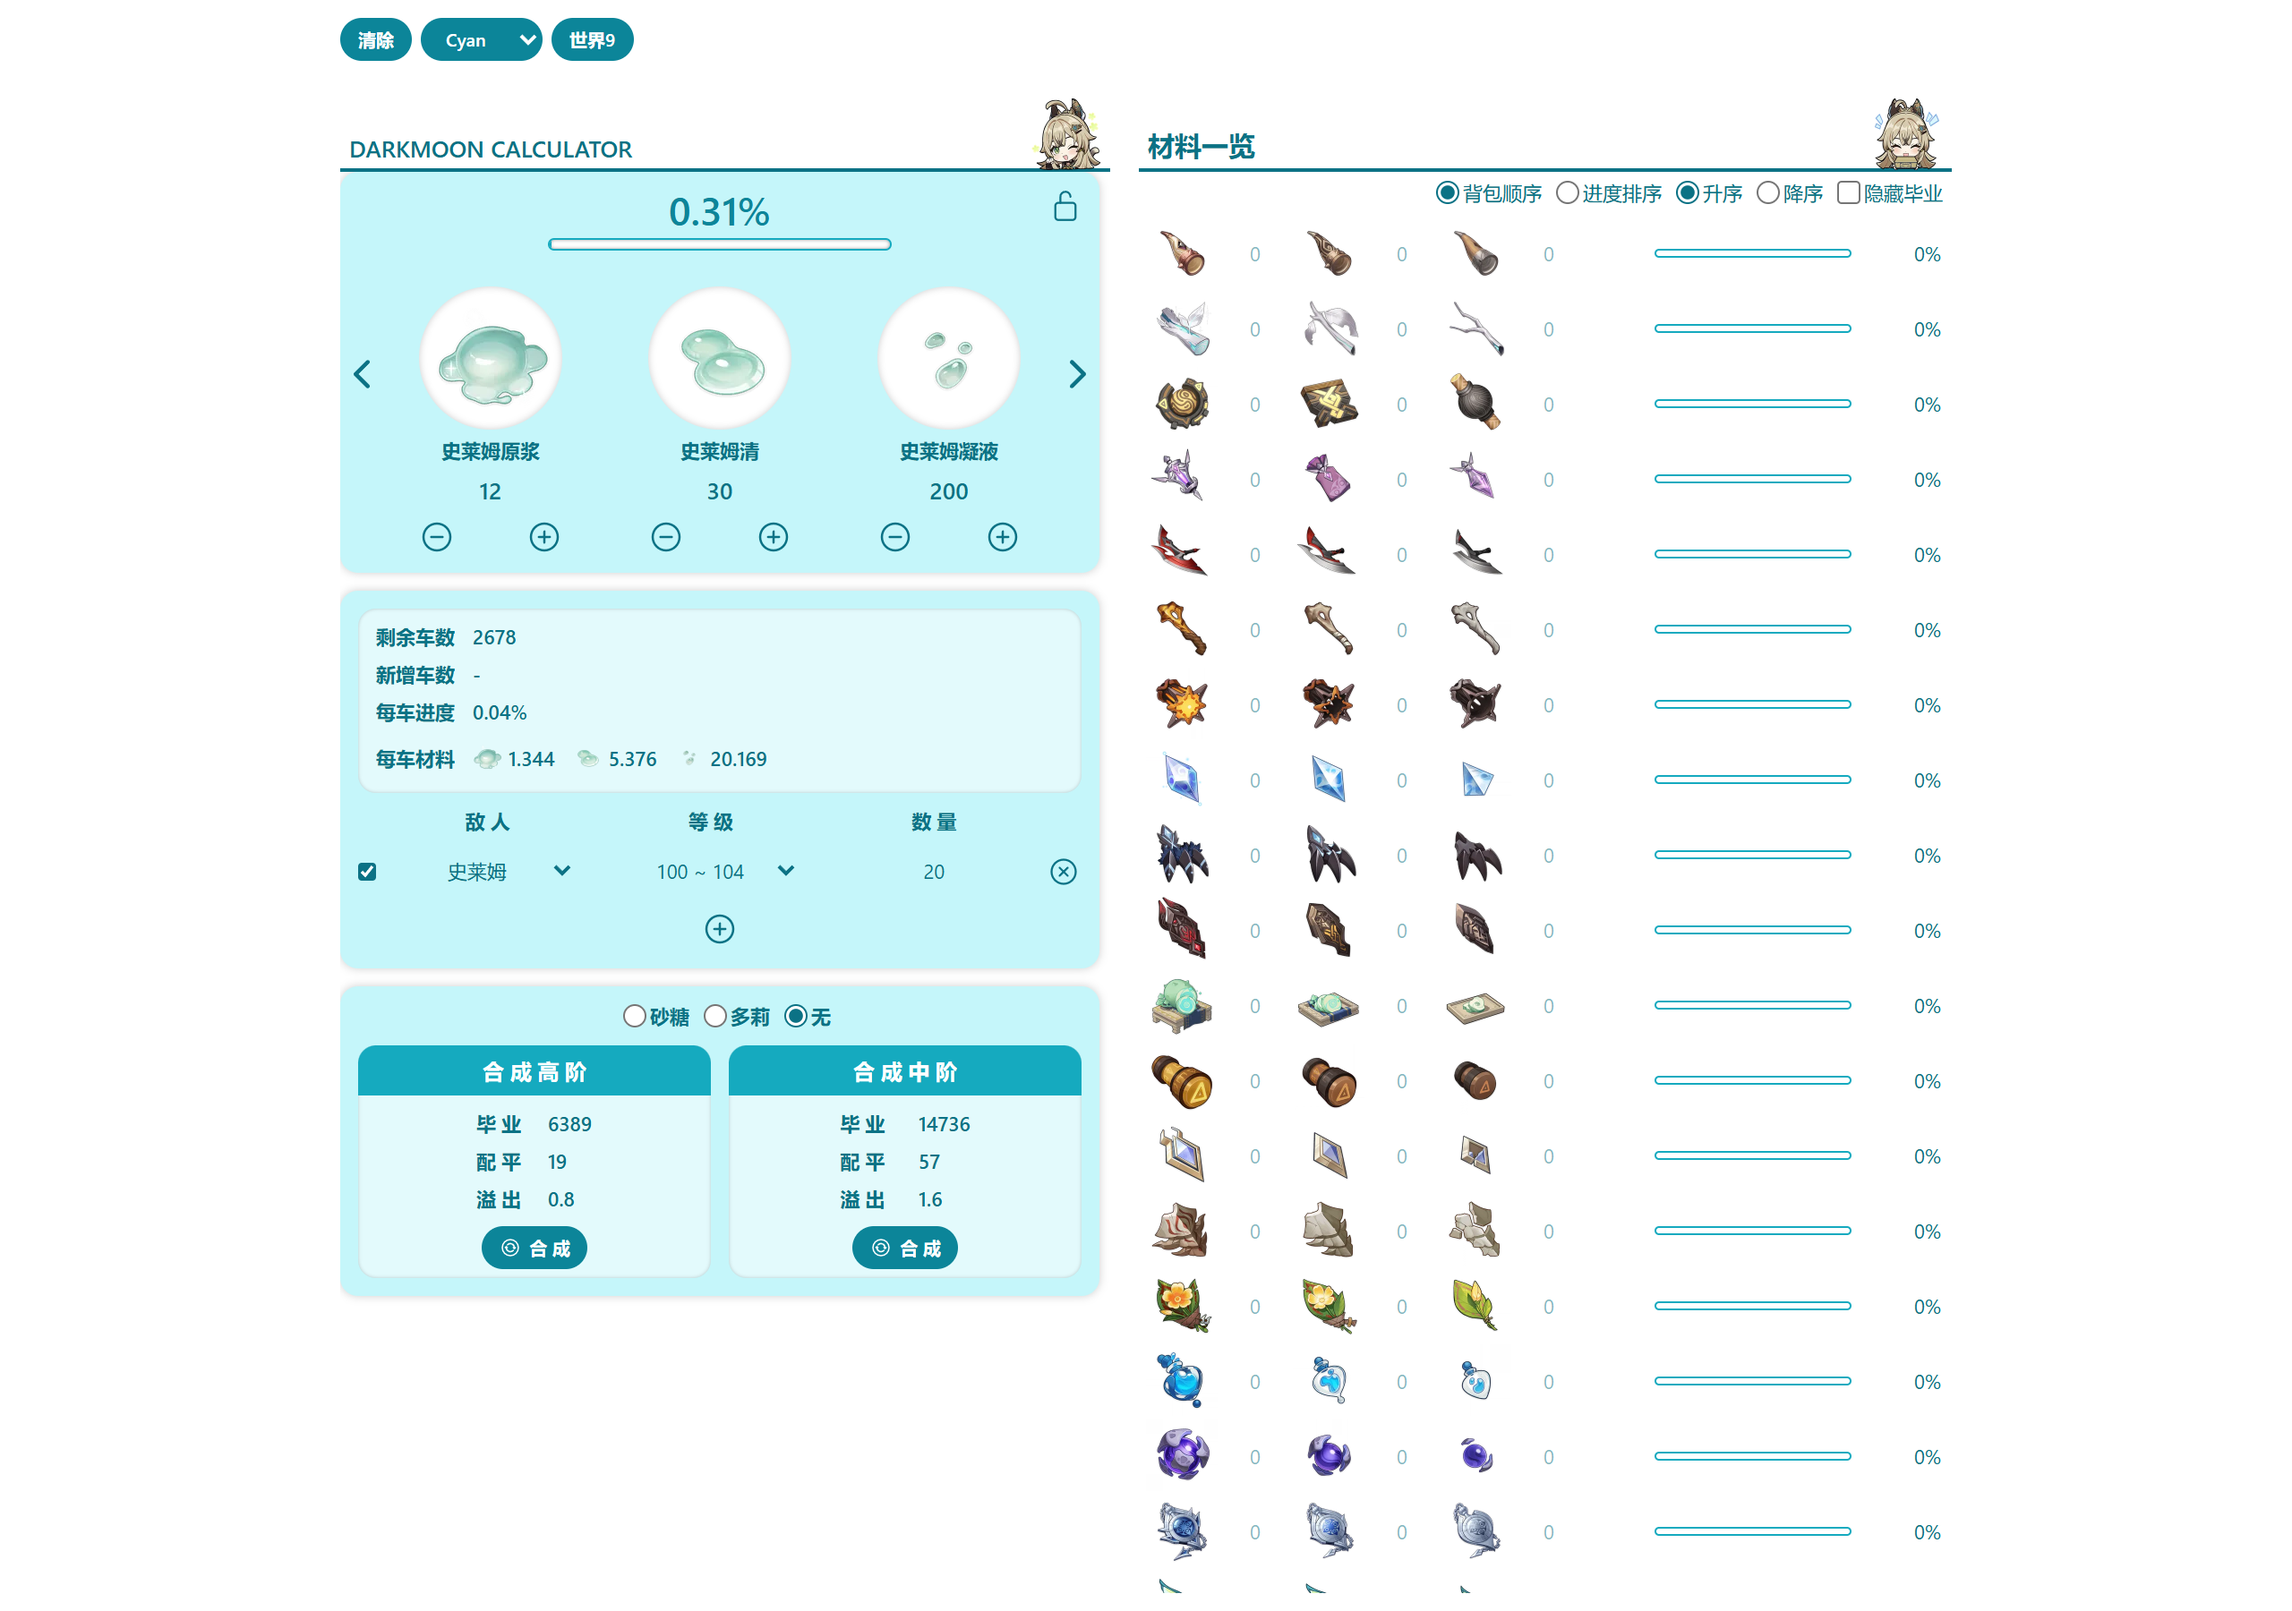
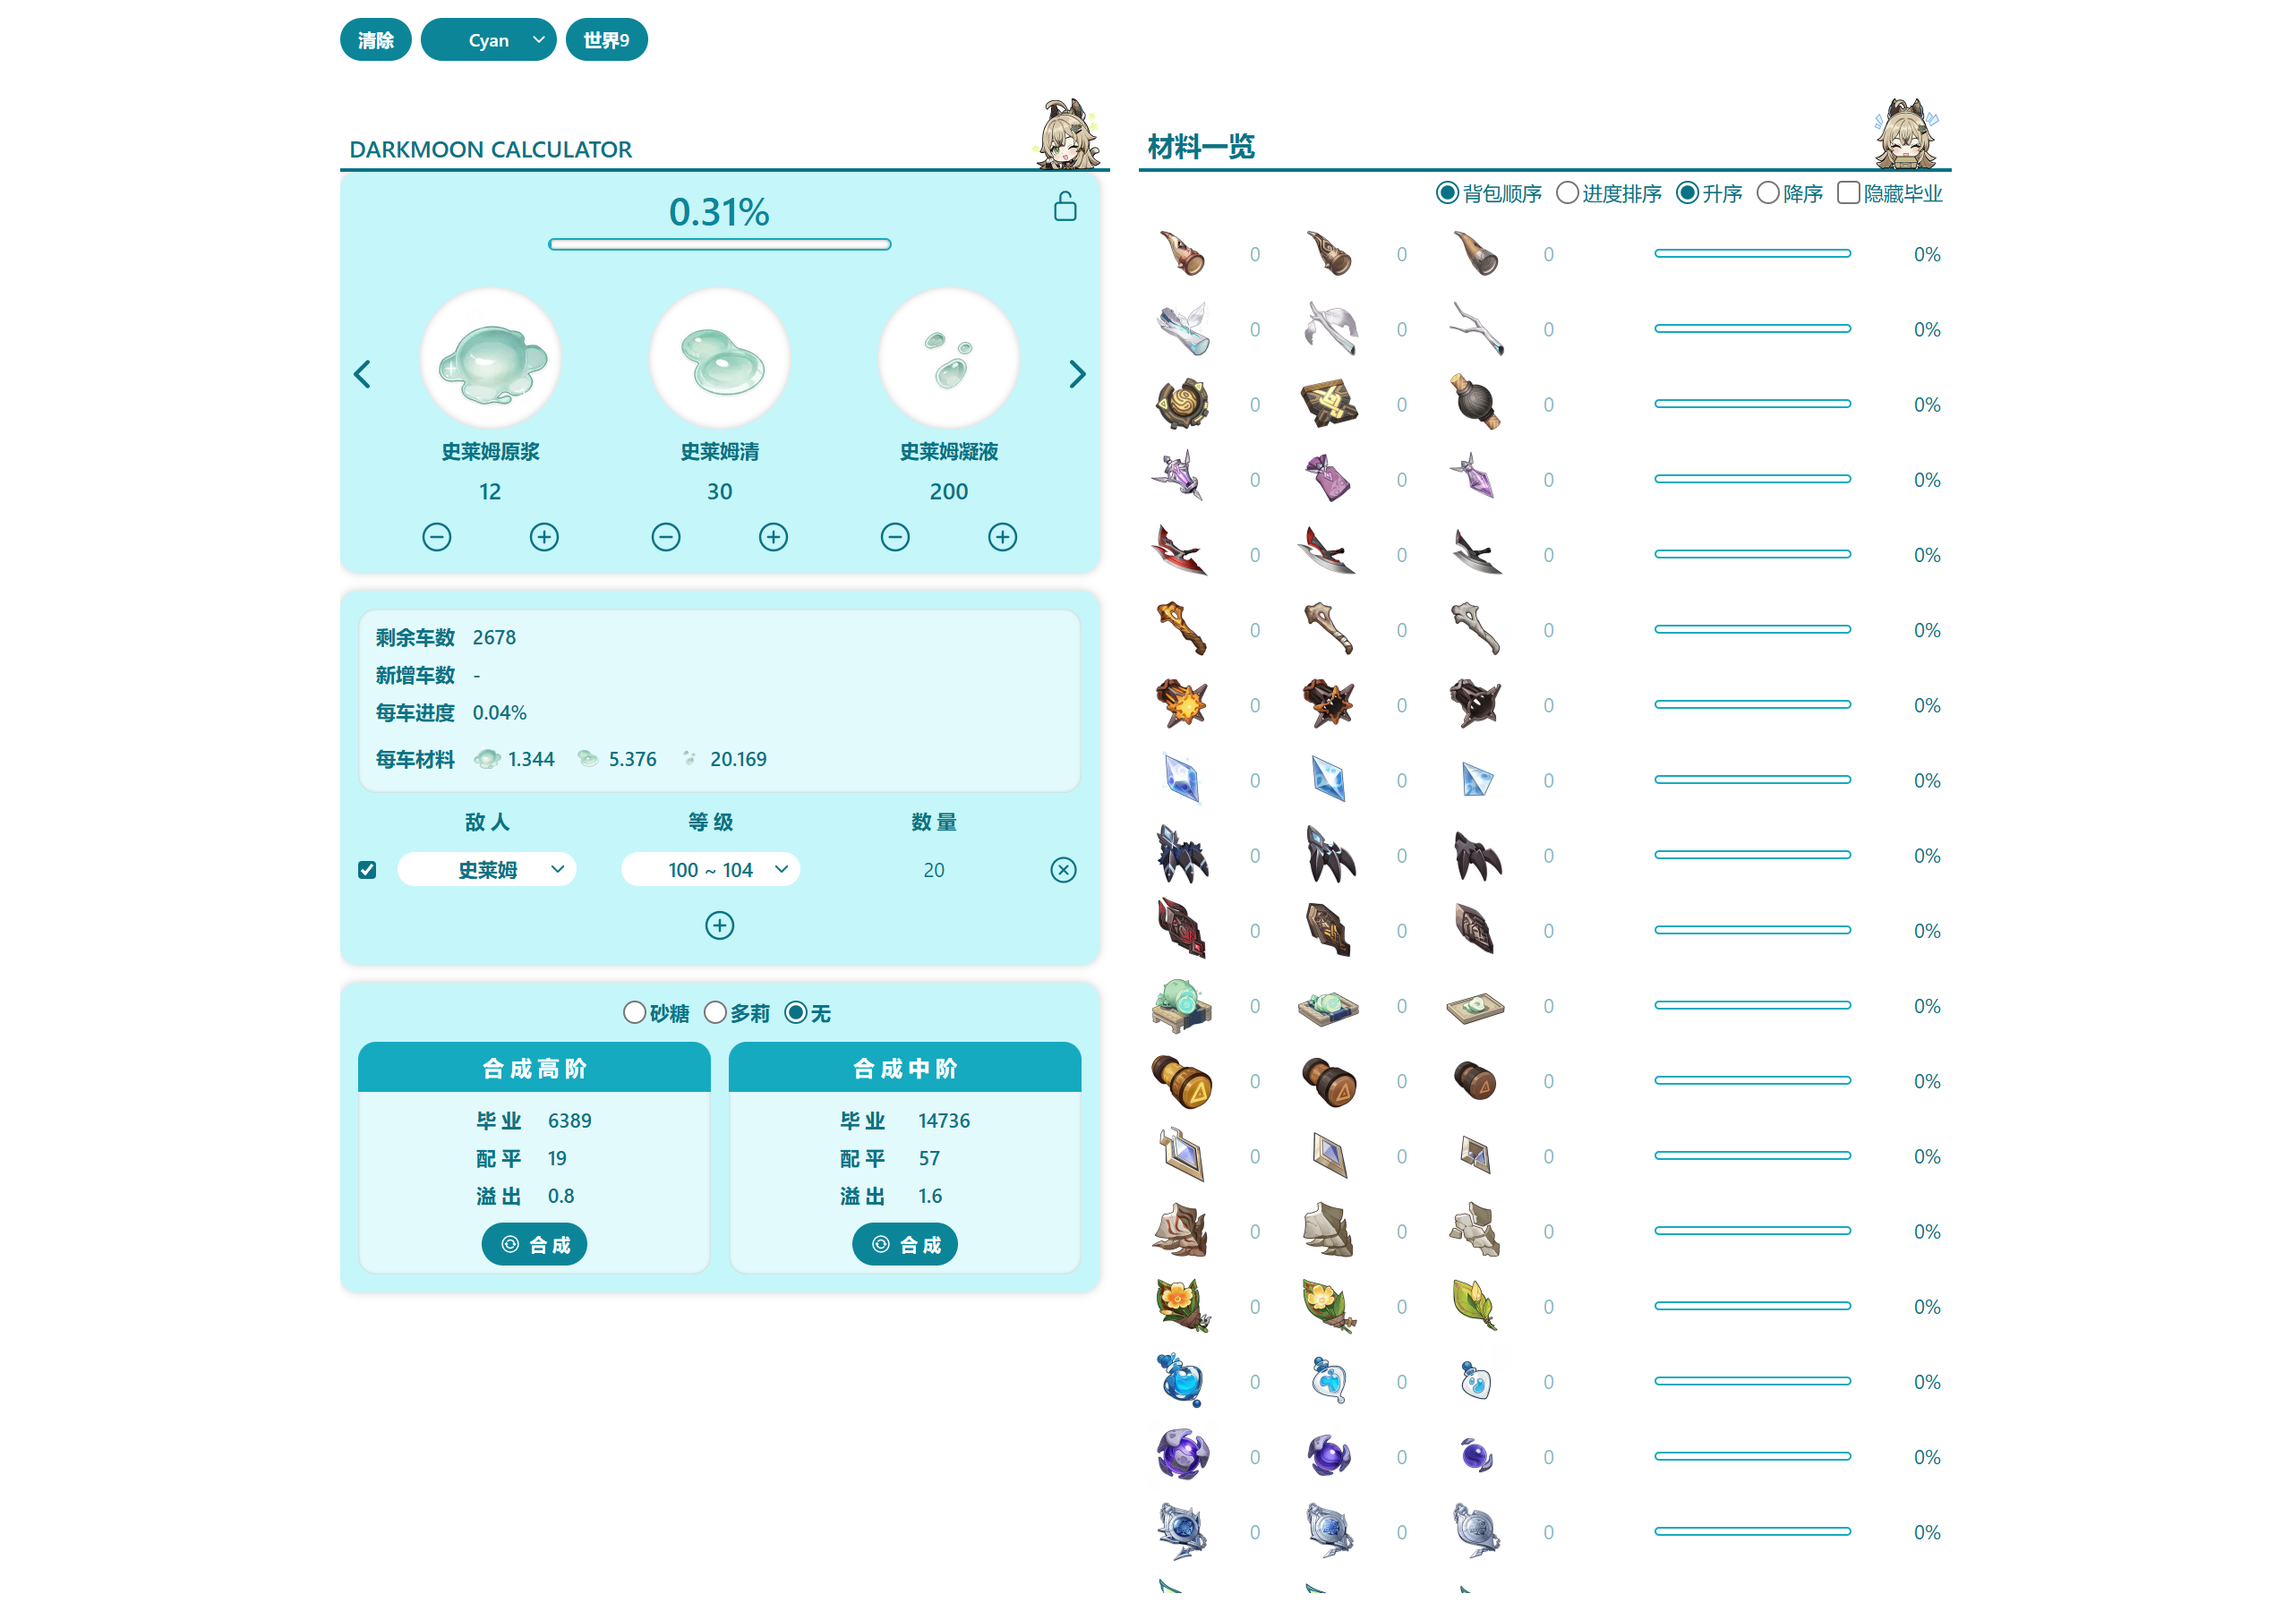
下拉框统一风格
原生 select 的箭头由系统绘制，和胶囊风格对不上：深色底上是黑箭头，
居中文字也被挤偏。

- 新增 components/ui/Select.tsx：appearance-none 去掉原生箭头，
  叠一个跟随文字颜色的 IoChevronDownOutline（pointer-events-none，
  点击仍落在 select 上）
- 两种形态：primary（导航栏，24px 高 / 10px 字，与相邻按钮同尺寸）、
  plain（敌人配置行，白底 11px 字）
- 导航栏下拉宽度 68 -> 76px，给自定义箭头留位置
- 删除不再使用的 selectLike 样式常量
- 实测导航栏「清除」按钮与主题下拉都是 24px 高、10px 字

diff --git a/src/components/ui/Select.tsx b/src/components/ui/Select.tsx
@@ -1,0 +1,51 @@
+import type { ReactNode, SelectHTMLAttributes } from "react";
+import { IoChevronDownOutline } from "react-icons/io5";
+
+type SelectVariant = "primary" | "plain";
+
+interface SelectProps extends SelectHTMLAttributes<HTMLSelectElement> {
+  /** primary：深色胶囊，用于导航栏；plain：白底胶囊，用于表单行 */
+  variant?: SelectVariant;
+  /** 控制宽度的类名（组件本身不设宽度） */
+  className?: string;
+  children: ReactNode;
+}
+
+const variantClass: Record<SelectVariant, string> = {
+  // 与导航栏按钮同高同字号
+  primary: "h-[24px] bg-c8 px-[10px] text-[10px] text-white",
+  // 与敌人配置行的输入框、敌人下拉同一尺寸
+  plain: "bg-white px-[14px] py-[4px] text-[11px] text-c9",
+};
+
+/**
+ * 统一风格的下拉框。
+ *
+ * 原生 `<select>` 的箭头由系统绘制，和这套胶囊风格对不上，所以用 `appearance-none`
+ * 去掉，再叠一个跟随文字颜色的自定义箭头（`pointer-events-none`，点击仍然落在 select 上）。
+ */
+export function Select({
+  variant = "plain",
+  className = "",
+  children,
+  ...rest
+}: SelectProps) {
+  return (
+    <span className={`relative inline-flex items-center ${className}`}>
+      <select
+        {...rest}
+        className={`w-full cursor-pointer appearance-none rounded-full border-none text-center font-semibold focus:shadow-[0_0_0_1px_var(--color-6)] focus:outline-none ${variantClass[variant]}`}
+      >
+        {children}
+      </select>
+
+      <IoChevronDownOutline
+        size={variant === "primary" ? 10 : 11}
+        aria-hidden
+        className={`pointer-events-none absolute right-[5px] ${
+          variant === "primary" ? "text-white" : "text-c9"
+        }`}
+      />
+    </span>
+  );
+}

diff --git a/src/components/EnemySection.tsx b/src/components/EnemySection.tsx
@@ -11,10 +11,8 @@ import {
   useEnemyStats,
 } from "../store/selectors";
 import { NumberInput } from "./NumberInput";
+import { Select } from "./ui/Select";
 import { iconButton } from "./ui/buttonStyles";
-
-const selectClass =
-  "w-[100px] cursor-pointer rounded-full border-none p-[4px] text-center text-[11px] text-c9 focus:shadow-[0_0_2px_var(--color-9)] focus:outline-none max-sm:w-[80px]";
 
 /** 敌人配置区域：每车材料统计 + 敌人/等级/数量配置行 */
 export function EnemySection() {
@@ -106,33 +104,33 @@ export function EnemySection() {
               className="h-[10px] w-[10px] accent-c9"
             />
 
-            <select
+            <Select
               aria-label="敌人"
               value={row.name}
               onChange={(event) => updateRow(index, { name: event.target.value })}
-              className={selectClass}
+              className="w-[100px] max-sm:w-[80px]"
             >
               {enemyNames.map((name) => (
                 <option key={name} value={name}>
                   {name}
                 </option>
               ))}
-            </select>
+            </Select>
 
-            <select
+            <Select
               aria-label="等级"
               value={row.level}
               onChange={(event) =>
                 updateRow(index, { level: Number(event.target.value) })
               }
-              className={selectClass}
+              className="w-[100px] max-sm:w-[80px]"
             >
               {enemyLevelRanges.map((range, level) => (
                 <option key={range} value={level}>
                   {range}
                 </option>
               ))}
-            </select>
+            </Select>
 
             <NumberInput
               value={row.number}

diff --git a/src/components/NavBar.tsx b/src/components/NavBar.tsx
@@ -5,7 +5,8 @@ import {
   useDarkmoonActions,
   useIsWorldLevel9,
 } from "../store/selectors";
-import { selectLike, textButton } from "./ui/buttonStyles";
+import { textButton } from "./ui/buttonStyles";
+import { Select } from "./ui/Select";
 
 export function NavBar() {
   const colorTheme = useColorTheme();
@@ -24,19 +25,20 @@ export function NavBar() {
         清除
       </button>
 
-      <select
+      <Select
         id="color-theme"
         aria-label="配色主题"
+        variant="primary"
         value={colorTheme}
         onChange={(event) => setColorTheme(event.target.value as ColorTheme)}
-        className={`${selectLike} w-[68px]`}
+        className="w-[76px]"
       >
         {COLOR_THEMES.map((theme) => (
           <option key={theme} value={theme}>
             {THEME_LABELS[theme]}
           </option>
         ))}
-      </select>
+      </Select>
 
       <button
         type="button"

diff --git a/src/components/ui/buttonStyles.ts b/src/components/ui/buttonStyles.ts
@@ -22,8 +22,3 @@ export const textButton = {
 export const iconButton =
   "cursor-pointer rounded-full text-c9 transition-transform duration-200 " +
   "hover:scale-110 active:scale-95";
-
-/** 下拉框等「伪按钮」控件，跟文本按钮保持同样的尺寸与圆角 */
-export const selectLike =
-  "h-[24px] cursor-pointer rounded-full border-none bg-c8 px-[10px] " +
-  "text-[10px] font-semibold text-white focus:outline-none";

diff --git a/README.md b/README.md
@@ -70,7 +70,8 @@ src/
 │   ├── NumberInput.tsx     带校验的数量输入框
 │   └── ui/
 │       ├── buttonStyles.ts 全站统一的按钮样式
-│       └── ProgressBar.tsx 进度条（带过渡动画与 aria 语义）
+│       ├── ProgressBar.tsx 进度条（带过渡动画与 aria 语义）
+│       └── Select.tsx      统一样式的下拉框
 ├── App.tsx / main.tsx / index.css
 ```
 
@@ -430,6 +431,15 @@ Windows 上编辑器写临时文件时被文件监视器锁住。`vite.config.ts
   只有下面的面板容器 `flex-1 overflow-y-auto`（滚动条仍隐藏）。
 - 实测 1280×700 下左栏内容滚到 44px，表头 `top` 始终是 44，右侧表头同样是 44；
   1280×900 内容不溢出时左栏不滚动。
+
+### 2026-11-20 · 下拉框统一风格
+
+- 原生 `<select>` 的箭头由系统绘制，和胶囊风格对不上（深色底上是黑箭头，居中文字还被挤偏）。
+- 新增 `components/ui/Select.tsx`：`appearance-none` 去掉原生箭头，叠一个跟随文字颜色的
+  `IoChevronDownOutline`（`pointer-events-none`，点击仍落在 select 上）。
+- 两种形态：`primary`（导航栏，24px 高 / 10px 字，与相邻按钮同尺寸）、
+  `plain`（敌人配置行，白底 11px 字）。
+- 导航栏的下拉宽度从 68px 调到 76px，给自定义箭头留出位置；顺手删掉不再使用的 `selectLike`。
 
 ### 2026-11-20 · 材料一览高亮当前材料
 
